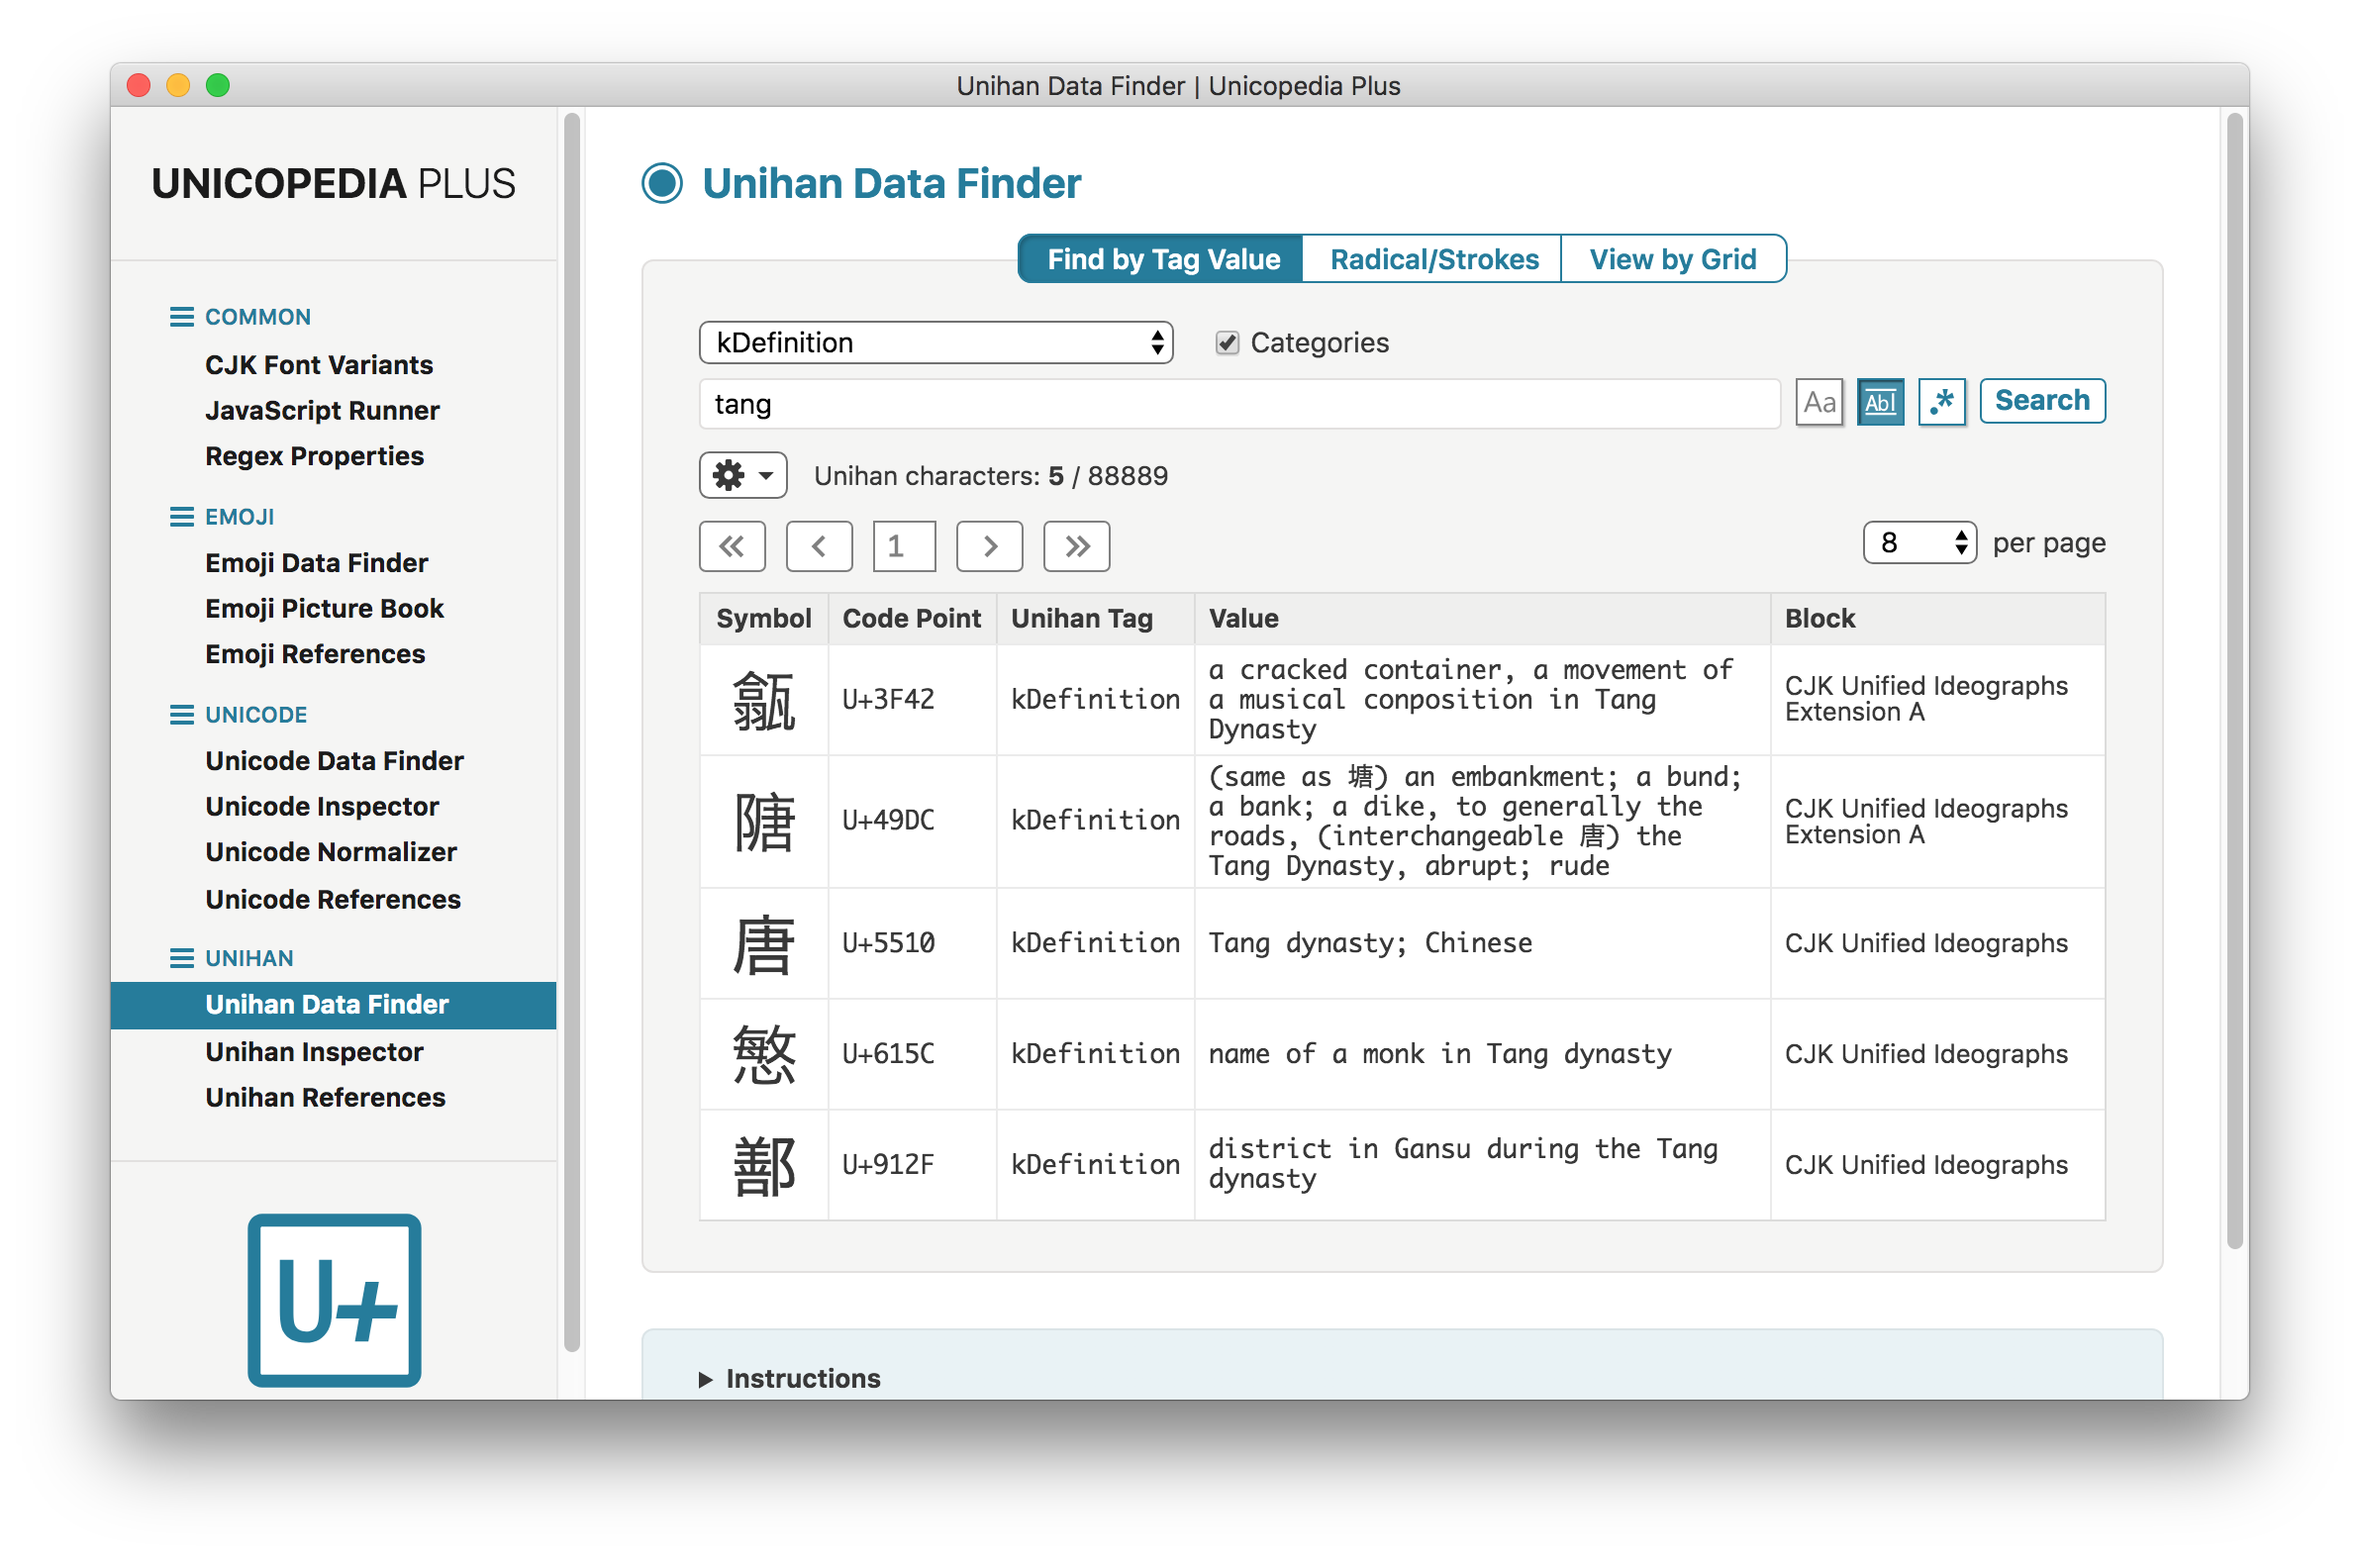
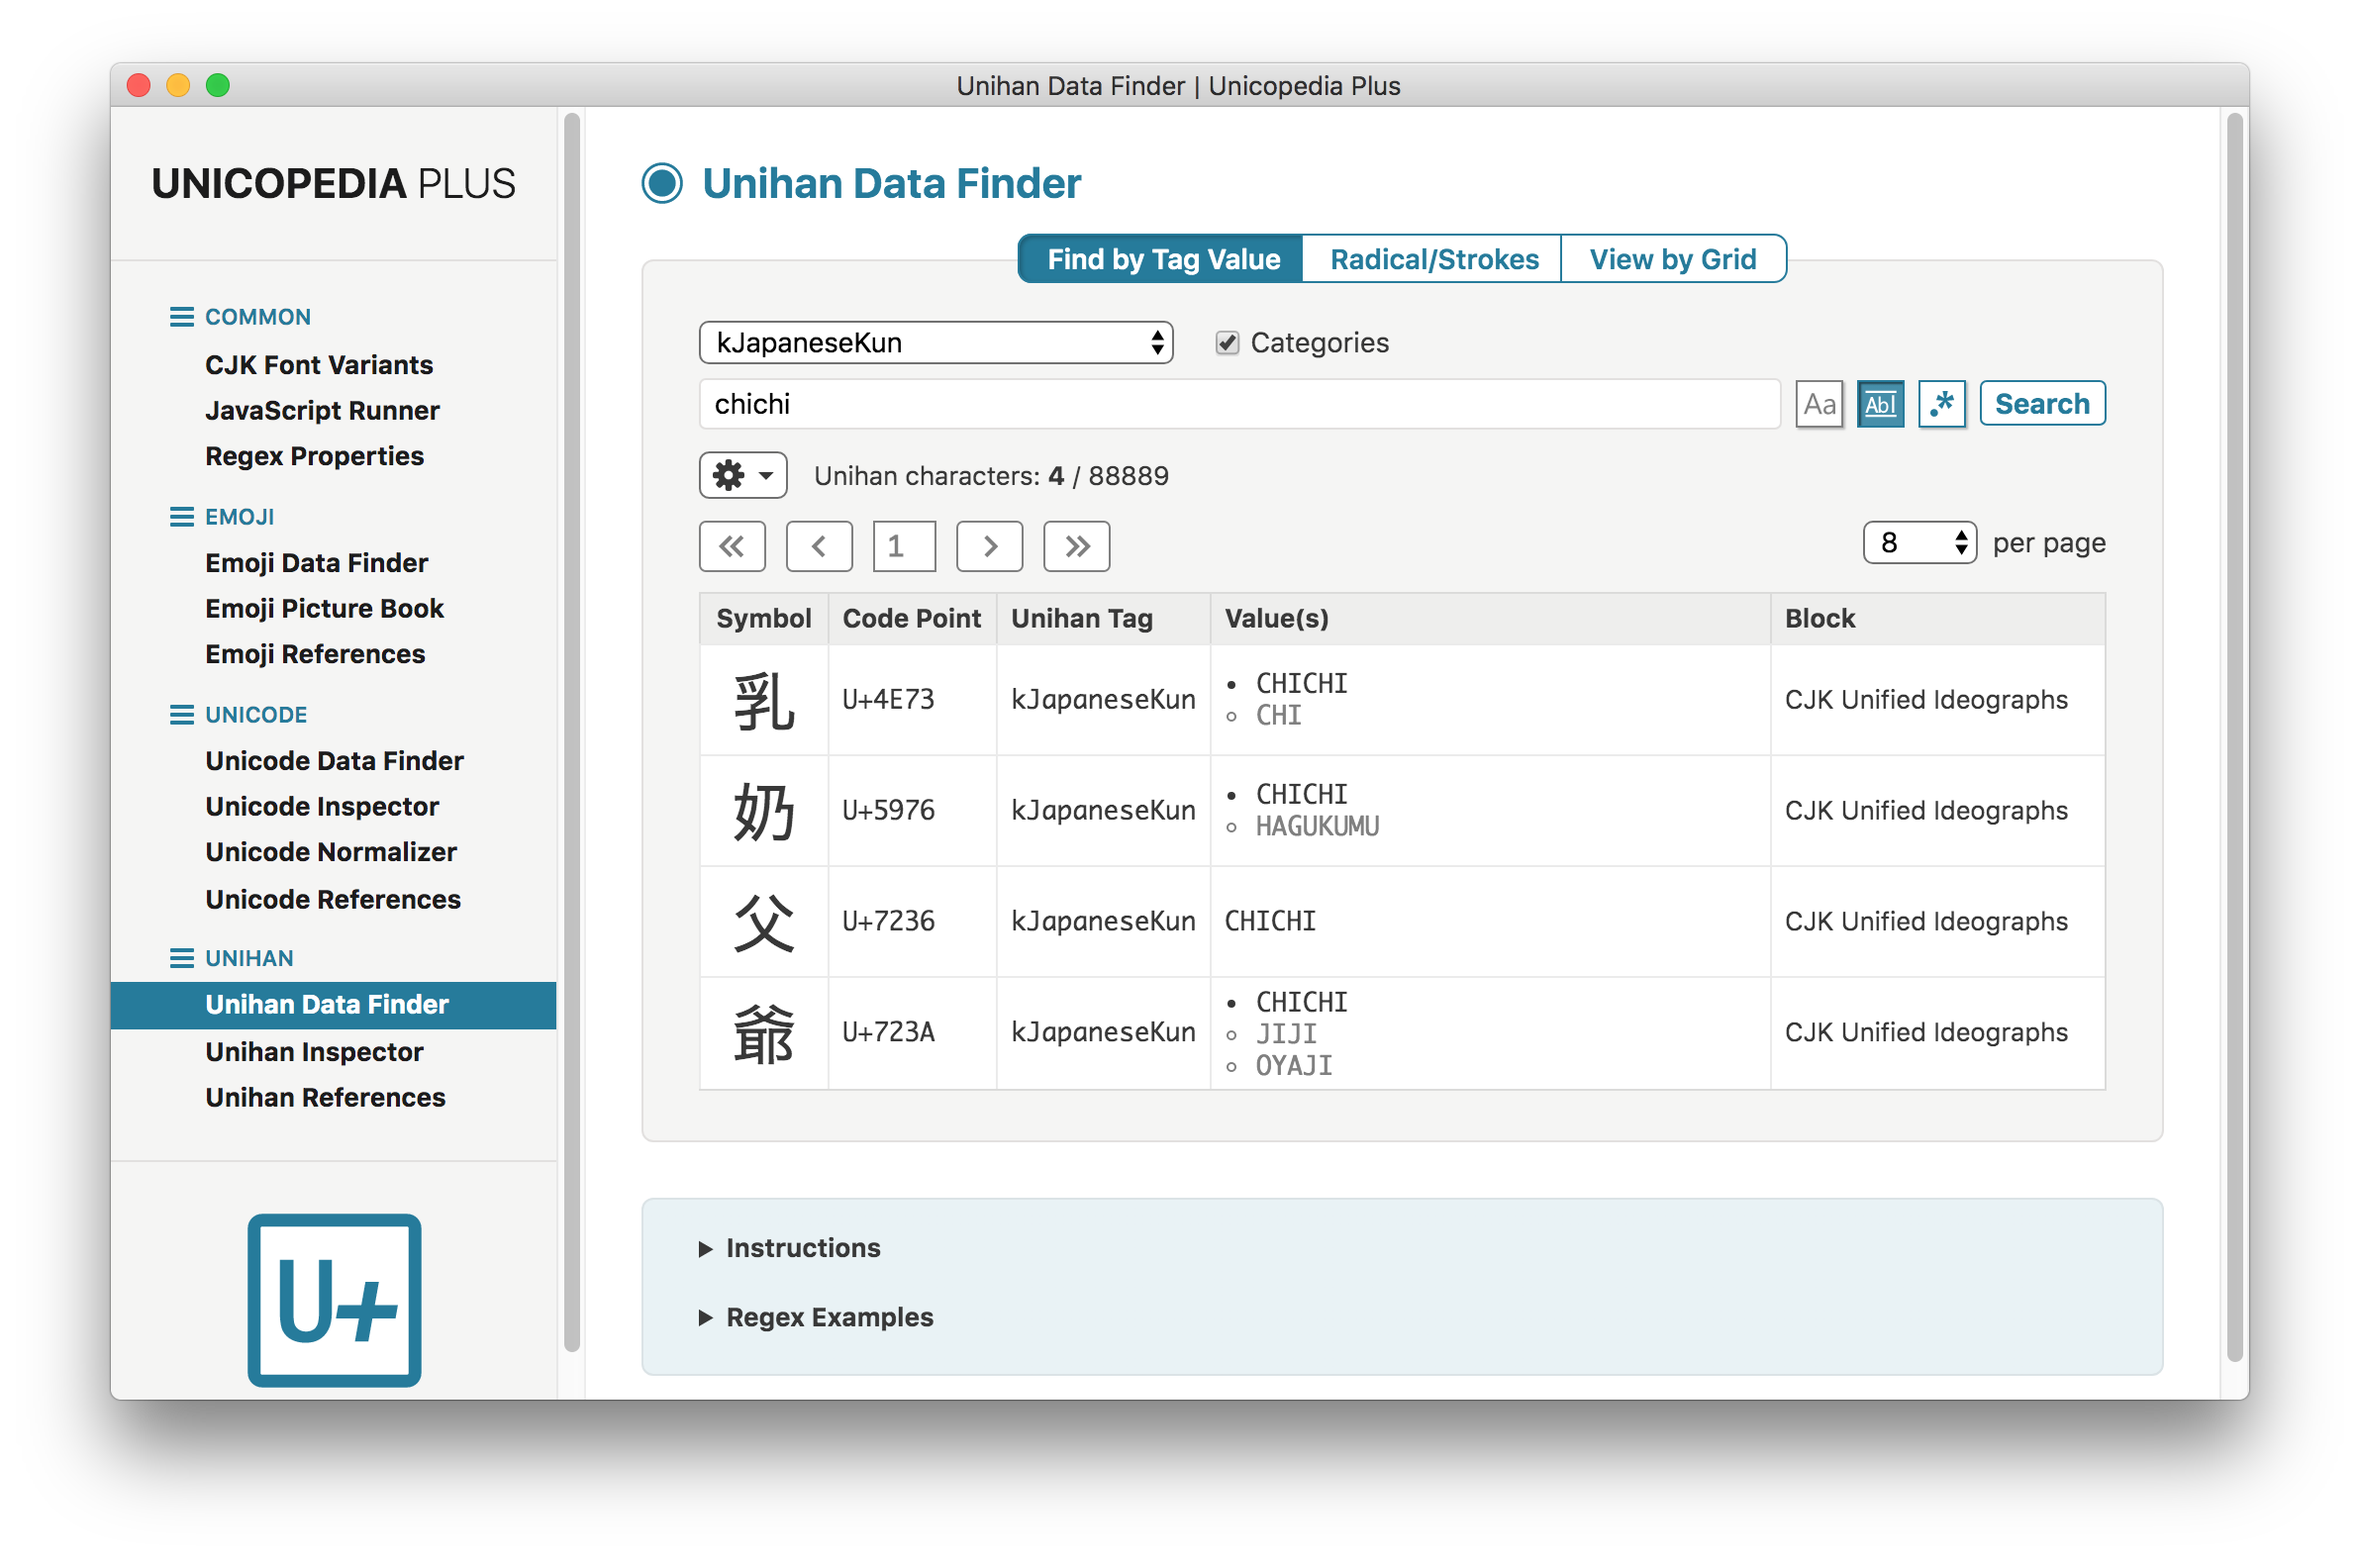
Updated app to 5.9.0

diff --git a/renderer/units/Unihan Data Finder/tag-data-table.js b/renderer/units/Unihan Data Finder/tag-data-table.js
@@ -71,7 +71,7 @@ module.exports.create = function (characterInfos, params)
         headerRow.appendChild (headerTag);
         let headerValue = document.createElement ('th');
         headerValue.className = 'header-value';
-        headerValue.textContent = "Value";
+        headerValue.textContent = "Value(s)";
         headerRow.appendChild (headerValue);
         let headerBlock = document.createElement ('th');
         headerBlock.className = 'header-block';
@@ -107,15 +107,20 @@ module.exports.create = function (characterInfos, params)
             let dataValue = document.createElement ('td');
             dataValue.className = 'data-value';
             let value = characterInfo.value;
+            let matching = characterInfo.matching;
             if (Array.isArray (value))
             {
                 let list = document.createElement ('ul');
                 list.className = 'list';
-                for (let element of value)
+                for (let index = 0; index < value.length; index++)
                 {
                     let item = document.createElement ('li');
                     item.className = 'item';
-                    item.textContent = element;
+                    if (!matching[index])
+                    {
+                        item.classList.add ('no-match');
+                    }
+                    item.textContent = value[index];
                     list.appendChild (item);
                 }
                 dataValue.appendChild (list);

diff --git a/renderer/units/Unihan Data Finder/import.js b/renderer/units/Unihan Data Finder/import.js
@@ -319,12 +319,9 @@ module.exports.start = function (context)
                 let matchingValues = [ ];
                 for (let value of values)
                 {
-                    if (value.match (regex))
-                    {
-                        matchingValues.push (value);
-                    }
+                    matchingValues.push (value.match (regex) !== null);
                 }
-                if (matchingValues.length > 0)
+                if (matchingValues.includes (true))
                 {
                     let character = String.fromCodePoint (parseInt (codePoint.replace ("U+", ""), 16));
                     let index = character.codePointAt (0);
@@ -345,7 +342,8 @@ module.exports.start = function (context)
                             character: character,
                             codePoint: codePoint,
                             tag: tag,
-                            value: ((matchingValues.length > 1) ? matchingValues : matchingValues[0]),
+                            value: ((values.length > 1) ? values : values[0]),
+                            matching: ((matchingValues.length > 1) ? matchingValues : matchingValues[0]),
                             blockName: blockName,
                             blockRange: blockRange
                         }

diff --git a/renderer/units/Unihan Data Finder/import.css b/renderer/units/Unihan Data Finder/import.css
@@ -416,12 +416,18 @@
 #unihan-data-finder-unit .search-data .data-table .data-value .list
 {
     margin: 0;
-    list-style-type: square;
+    list-style-type: disc;
 }
 
 #unihan-data-finder-unit .search-data .data-table .data-value .item
 {
     margin: 0.1em 0 0.1em -24px;
+}
+
+#unihan-data-finder-unit .search-data .data-table .data-value .item.no-match
+{
+    color: gray;
+    list-style-type: circle;
 }
 
 #unihan-data-finder-unit .search-data .data-table .data-block

diff --git a/main.js b/main.js
@@ -44,7 +44,7 @@ else
     //
     const appName = app.getName ();
     const appVersion = app.getVersion ();
-    const appDate = (isPackaged ? fs.statSync (app.getPath ('exe')).birthtime : new Date ()).toISOString ();
+    const appDate = (isPackaged ? fs.statSync (app.getPath ('exe')).ctime : new Date ()).toISOString ();
     //
     let appDirname = app.getAppPath ();
     let unpackedDirname = `${appDirname}.unpacked`;
